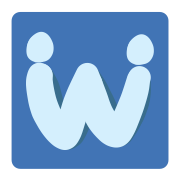
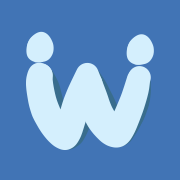
アイコン画像修正

Changed region(s): [[0.0, 0.0, 1.0, 1.0]]

diff --git a/packages/web/src/components/setting/InitialSettingPane.tsx b/packages/web/src/components/setting/InitialSettingPane.tsx
@@ -1,7 +1,6 @@
 import logo from "@assets/logo.svg";
 import { ArrowForwardIcon } from "@chakra-ui/icons";
 import {
-    Image,
     Button,
     Card,
     CardBody,
@@ -11,6 +10,7 @@ import {
     HStack,
     Heading,
     IconButton,
+    Image,
     Link,
     Spacer,
     Stack,
@@ -43,7 +43,7 @@ export default function InitialSettingPane({ onStart }: Props) {
                 <Center>
                     <Stack spacing={6}>
                         <HStack>
-                            <Image src={logo.src} width={"28px"} height={"28px"} />
+                            <Image src={logo.src} boxSize="28px" borderRadius={"md"} />
                             <Heading as="h1" size="sm">
                                 ダブルスメンバー決めるくん
                             </Heading>
